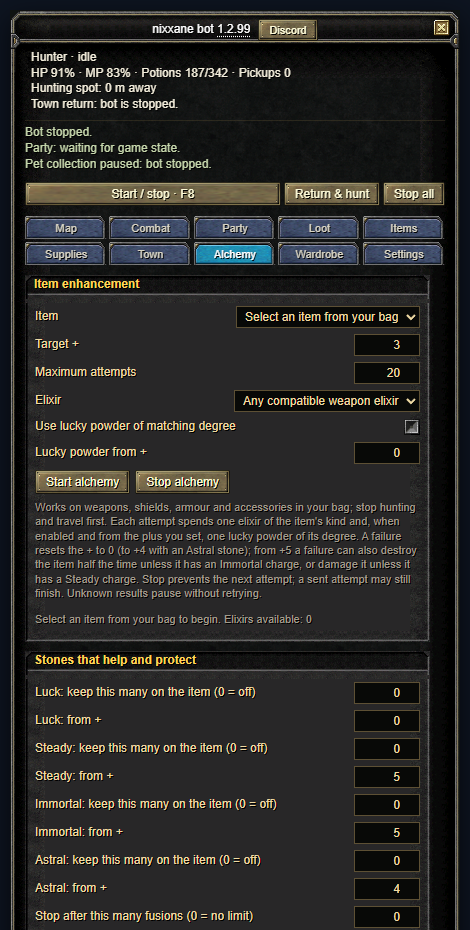
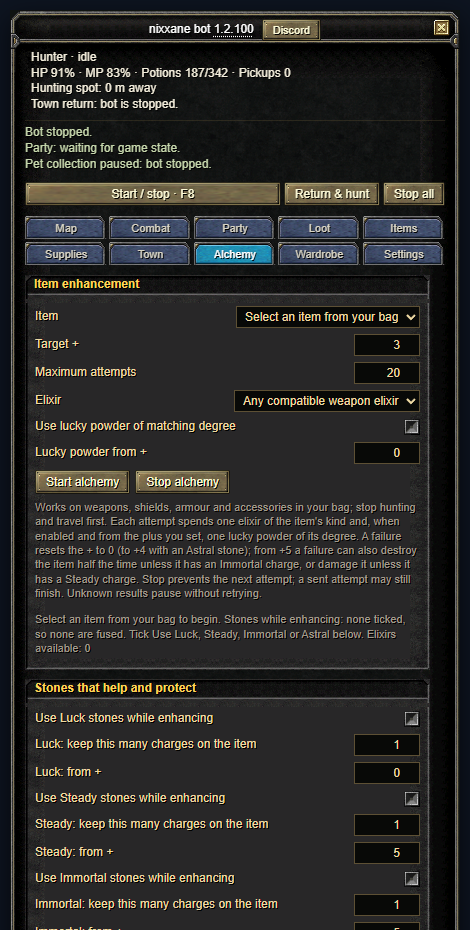
1.2.100 patch notes

Changed region(s): [[0.0596, 0.6548, 0.9234, 1.0], [0.4766, 0.0, 0.6851, 0.0624], [0.3277, 0.0, 0.4468, 0.0624]]

diff --git a/guide.html b/guide.html
@@ -114,7 +114,7 @@
     <h3>Item alchemy</h3>
     <p>The <strong>Alchemy</strong> tab enhances one item from your bag with elixirs: a weapon, shield, armour piece or accessory, each with its own kind of elixir. Failed attempts can lower, damage or destroy the item, so set a sensible <strong>Target +</strong> and attempt limit and stop hunting first. Under the settings the tab shows the chance of the next attempt and how many elixirs you should expect to need, taken from the server's own data, and a <strong>Results</strong> panel keeps count and a log.</p>
     <img class="shot" src="guide/09-alchemy.png" width="470" alt="The Alchemy tab: item choice, target plus, attempts, elixir choice, lucky powder from a plus, and the start and stop buttons.">
-    <p>Under <strong>Stones that help and protect</strong> choose how many <strong>Luck</strong>, <strong>Steady</strong>, <strong>Immortal</strong> and <strong>Astral</strong> charges the item should keep (0 to 6 each) and the plus each is used <strong>from</strong>. Luck raises the enhancement success chance, Steady stops durability damage, Immortal stops destruction when an enhancement fails from +5, and Astral keeps +4 instead of resetting to 0. The stones must be of the item's degree and in your bag; a missing charge is fused automatically before an attempt at or above its plus. <strong>Fuse stones now</strong> ignores the plus and only fills the charges.</p>
+    <p>Under <strong>Stones that help and protect</strong> tick <strong>Use Luck / Steady / Immortal / Astral stones while enhancing</strong> for the helpers you want, set how many charges to keep on the item (1 to 6) and the plus each is used <strong>from</strong>. Luck raises the enhancement success chance, Steady stops durability damage, Immortal stops destruction when an enhancement fails from +5, and Astral keeps +4 instead of resetting to 0. The stones must be of the item's degree and in your bag; when the item has fewer charges than you asked to keep, one is fused automatically before every attempt at or above its plus. <strong>Fuse stones now</strong> ignores the plus and only fills the charges.</p>
     <img class="shot" src="guide/09b-alchemy-stones.png" width="470" alt="The Alchemy tab, Stones that help and protect: Luck, Steady, Immortal and Astral counts, the plus each is used from, and the Fuse stones now button.">
 
     <h2 id="problems">6. If something goes wrong</h2>

diff --git a/index.html b/index.html
@@ -26,6 +26,14 @@
       <h2 id="patch-notes-title">Patch notes</h2>
       <p class="notes-intro">Install the latest script, then reload the game. Reporting-service fixes apply automatically.</p>
       <article class="release">
+        <h3><a href="https://github.com/nixxane/opensro-bot-lean/commit/5642c9b660eff312247958984ee8d2877943035a">1.2.100</a> · Alchemy helper stones: a simple Use switch for each</h3>
+        <ul>
+          <li>Luck, Steady, Immortal and Astral now each have a Use switch. When it is ticked, the bot fuses a stone automatically before every attempt at or above the plus you set whenever the item has fewer charges than you asked it to keep, so the stones are used while enhancing without any extra clicking.</li>
+          <li>Before, a helper only ran when its count was set above zero and the counts started at zero, which made it look as if the stones were never used. The counts now start at 1 and mean how many charges to keep, and old settings keep their helpers switched on.</li>
+          <li>The Alchemy tab says which helpers it will use, from which plus and how many charges it keeps, or says that none are ticked.</li>
+        </ul>
+      </article>
+      <article class="release">
         <h3><a href="https://github.com/nixxane/opensro-bot-lean/commit/e218dd77c0d58cdb6ecd4cb1f6f3db51c2b3ea91">1.2.99</a> · Alchemy tab: every gear kind, rules from +N, odds and a results log</h3>
         <ul>
           <li>The Alchemy tab now enhances weapons, shields, armour and accessories, each with its own elixir (the A and B elixirs of its kind). Before, only weapons worked.</li>
